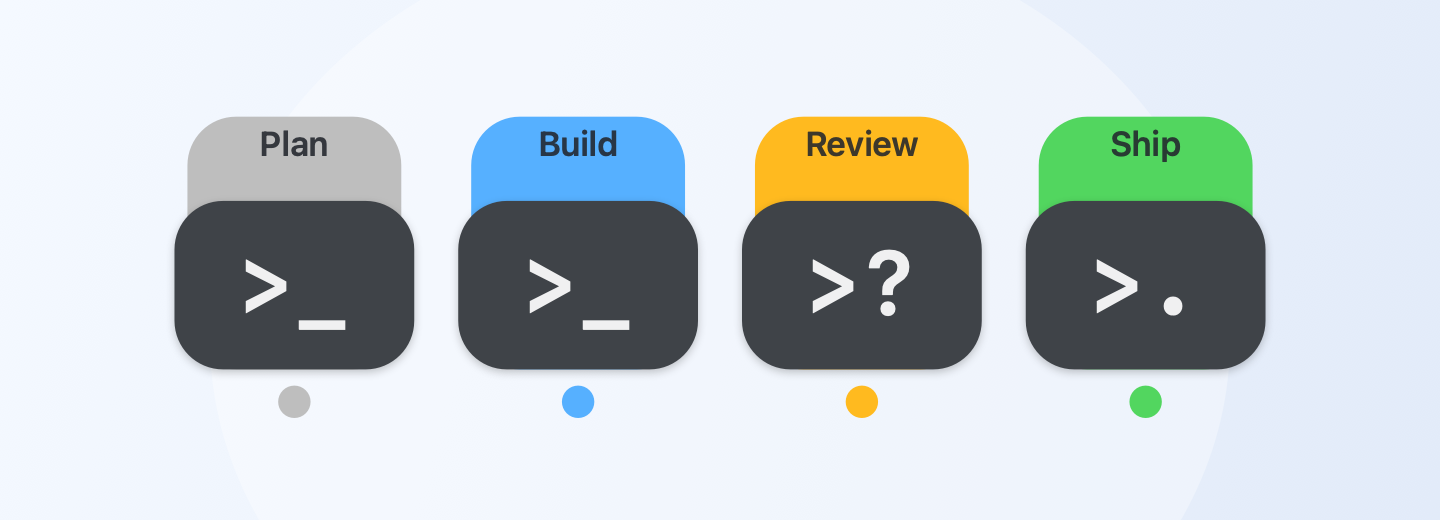
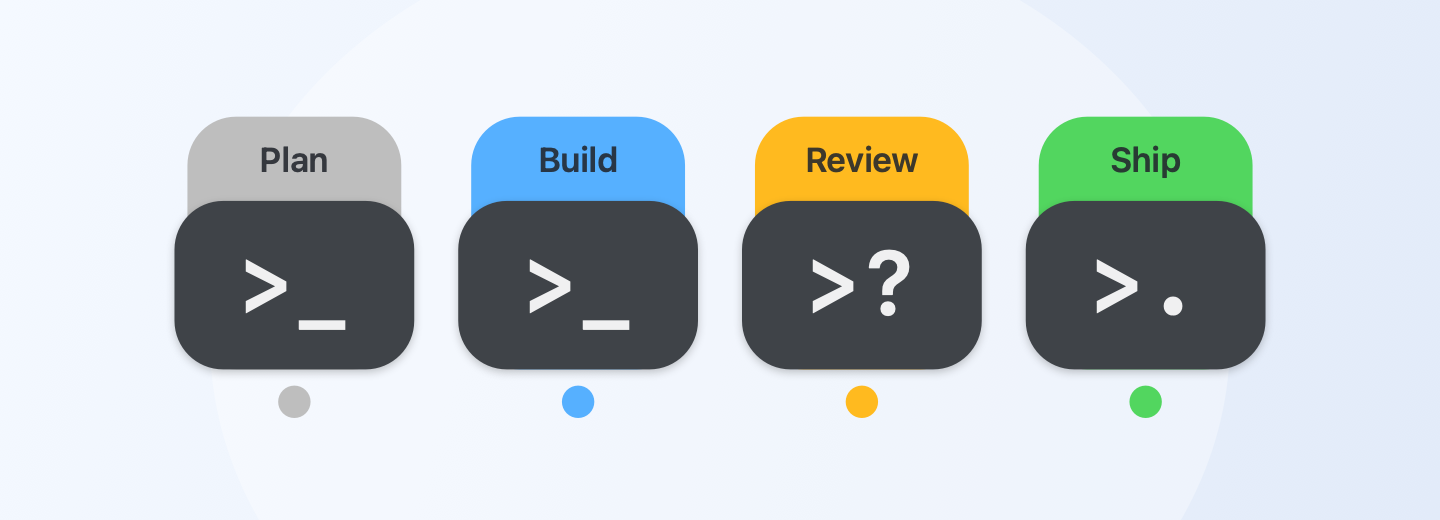
Align preview task labels with app

diff --git a/scripts/render_readme_preview.swift b/scripts/render_readme_preview.swift
@@ -93,7 +93,7 @@ for (index, task) in tasks.enumerated() {
         color: NSColor(calibratedRed: 0.10, green: 0.11, blue: 0.13, alpha: 0.88),
         rect: NSRect(
             x: rear.minX + 4 * tileScale,
-            y: rear.maxY - 20 * tileScale,
+            y: rear.maxY - 25 * tileScale,
             width: rear.width - 8 * tileScale,
             height: 18 * tileScale
         )
